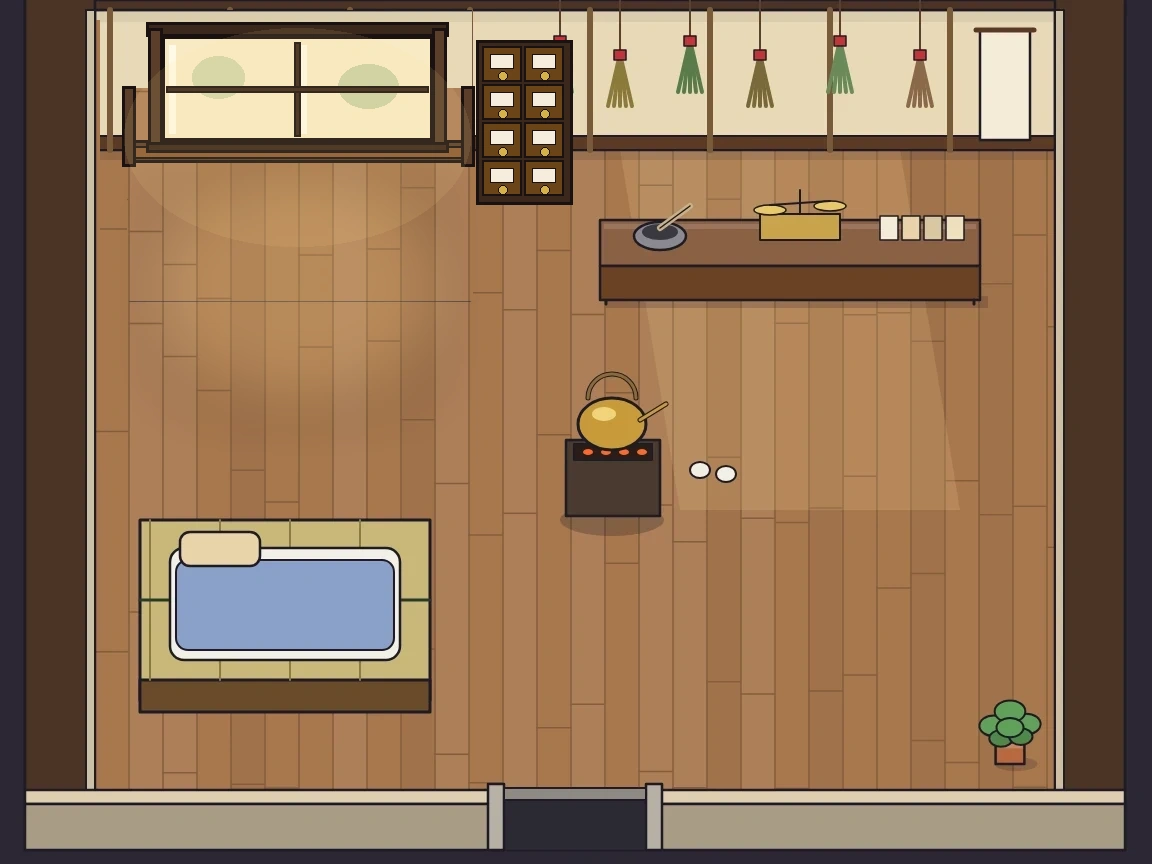
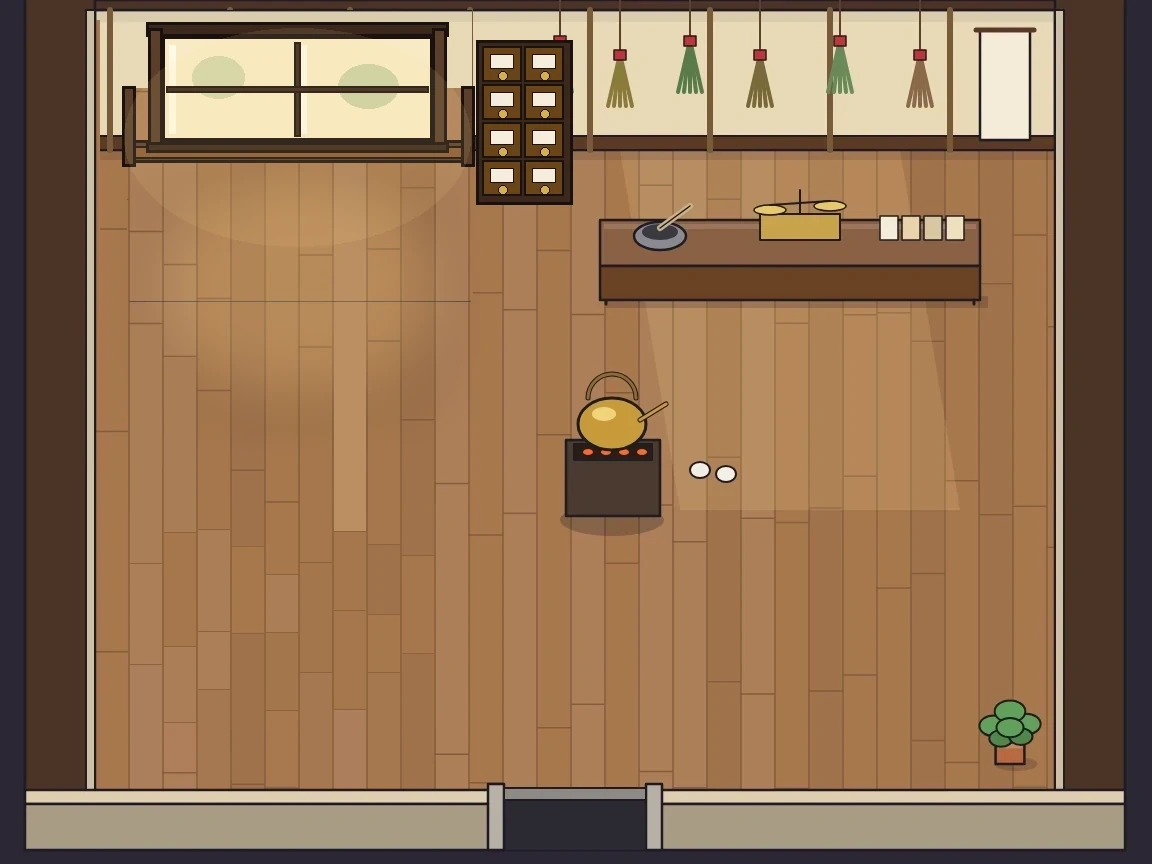
clinic: tatami cot painted out (planks re-laid joint to joint), tools/healstyle/paint_clinic.py

Changed region(s): [[0.0938, 0.5938, 0.375, 0.8438]]

diff --git a/tools/healstyle/paint_clinic.py b/tools/healstyle/paint_clinic.py
@@ -1,0 +1,40 @@
+#!/workspace/pwenv/bin/python3
+"""v6564-healstyle (Erik t418/t419): take the tatami cot out of world/c2_clinic.webp and lay floor where it stood.
+The clinic floor is flat cel planks on a 34 px grid (vertical lines at 128, 162, ... 434), each plank cut into segments by
+1 px joints. Each plank column under the cot is re-laid from the joint above the cot to the joint below it, continuing
+the segment colors it meets at both ends, so there is no seam. The rest of the room stays pixel-identical.
+usage: paint_clinic.py [--preview out.png]"""
+import sys, random
+from pathlib import Path
+from PIL import Image, ImageDraw
+ROOT = Path(__file__).resolve().parents[2]
+P = ROOT / 'world' / 'c2_clinic.webp'
+im = Image.open(P).convert('RGB'); px = im.load(); d = ImageDraw.Draw(im)
+rnd = random.Random(419)
+LINE = (145, 101, 61); JOINT = (141, 99, 61)
+PAL = [(168, 120, 77), (173, 127, 88), (160, 114, 75), (164, 118, 76), (172, 126, 87), (166, 119, 76)]
+Y0, Y1 = 506, 728            # cot + shadow rows
+LINES = list(range(128, 436, 34))   # 128 ... 434
+dark = lambda c: sum(c) < 360
+for i in range(len(LINES) - 1):
+    L, R = LINES[i] + 2, LINES[i + 1]          # plank interior x range [L, R)
+    cx = (L + R) // 2
+    yt = Y0
+    while yt > Y0 - 220 and not dark(px[cx, yt]): yt -= 1    # joint above
+    yb = Y1
+    while yb < 788 and not dark(px[cx, yb]): yb += 1         # joint below (or the wall)
+    ctop = px[cx, yt + 3]; cbot = px[cx, yb - 3]
+    # segments: keep the top color to a first cut, random middle pieces, the bottom color last
+    cuts = [yt]; y = max(yt + 40, Y0 + rnd.randint(18, 70))
+    while y < yb - 46: cuts.append(y); y += rnd.randint(58, 120)
+    cuts.append(yb)
+    for k in range(len(cuts) - 1):
+        col = ctop if k == 0 else cbot if k == len(cuts) - 2 else rnd.choice([c for c in PAL if c != ctop])
+        d.rectangle([L, cuts[k] + 1, R - 1, cuts[k + 1] - 1], fill=col)
+        if 0 < k: d.line([L, cuts[k], R - 1, cuts[k]], fill=JOINT)
+for x in LINES:                                    # the plank lines, 2 px, through the patched rows
+    d.rectangle([x, Y0 - 1, x + 1, Y1 + 1], fill=LINE)
+if '--preview' in sys.argv:
+    im.save(sys.argv[sys.argv.index('--preview') + 1])
+else:
+    im.save(P, 'WEBP', quality=90, method=6); print('wrote', P, P.stat().st_size)
